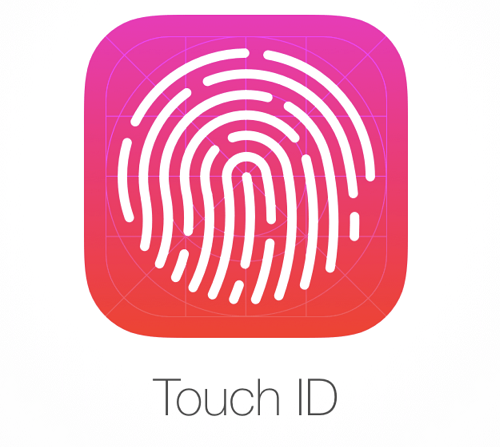
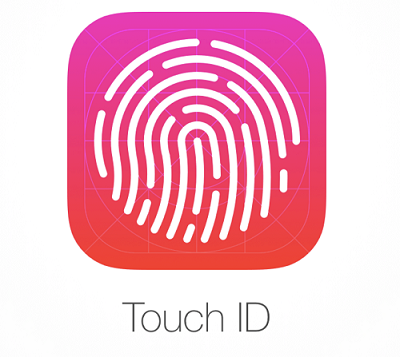
Changes on main page

diff --git a/index.html b/index.html
@@ -99,11 +99,11 @@
 
       <p style="font-size:24px; text-align:center"><i>In a society driven by information technology,</i></p>
       <p style="font-size:24px; text-align:center"><i>welcome to the world of information security.</i></p>
+      
       <!-- START THE FEATURETTES -->
       <br>
-      <!-- <hr class="featurette-divider"> -->
-      <div class="row featurette">
 
+      <div class="row featurette">
         <div class="col-md-7">
           <h2 class="featurette-heading">At First Glance</h2>
           <br>
@@ -113,7 +113,7 @@
             their information because in this day and age, information means money and access.</p>
         </div>
         <div class="col-md-5">
-          <img class="featurette-image img-fluid mx-auto" style="width: 500px; height: 473px;" src="image/index/securityQuestion.png">
+          <img class="featurette-image img-fluid mx-auto" style="width: 400px; height: 378px;" src="image/index/securityQuestion.png">
         </div>
       </div>
 
@@ -131,7 +131,7 @@
         </div>
 
         <div class="col-md-5 order-md-1">
-          <img class="featurette-image img-fluid mx-auto" style="width: 500px; height: 447px;" src="image/index/touchID.png" data-holder-rendered="true">
+          <img class="featurette-image img-fluid mx-auto" style="width: 400px; height: 357px;" src="image/index/touchID.png" data-holder-rendered="true">
         </div>
       </div>
 
@@ -159,57 +159,8 @@
             but many types of social engineering can be spontaneous and often
             rely on a disrupting effect. Other social engineering techniques include:
             </p>
-
-            <br><br>
-            <h3>Malware</h3>
-            <p class="lead" align="justify">
-              In Season 6, Episode 5 of The Good Wife, law partner Diane Lockhart
-              clicks on a popup and inadvertently installs ransomware onto the
-              entire network of computers in her law firm, locking their
-              information and files. In order to regain access, she must
-              pay $50,000.
-
-              <br><br>
-
-              Ransomware, a program that locks information and holds it captive
-              for ransom until payment is given, is one of the most frustrating
-              types of malware. Malware, short for malicious software, is a
-              piece of software that intentionally compromises a user's information.
-
-              <br><br>
-
-              In addition to ransomware, there is also spyware, which tracks a
-              user’s activity/information, and worms, which are independent
-              self-replicating malware programs. Intuitively speaking, malware
-              is any kind of virus you can imagine and is often combatted with
-              firewalls and anti-malware software.
-            </p>
-            <br><br>
-          <h3>Cryptography</h3>
-          <p class="lead" align="justify">
-            Though ciphers and codes have been used for thousands of years, the
-            struggle to unlock the Enigma Code was so inspiring that it was made
-            into a movie. <b>The Imitation Game</b> portrays the brilliant computer
-            scientist Alan Turing as he worked to build a machine that would
-            decrypt the German’s Enigma Code, a WWII cipher that changed daily.
-
             <br>
-            <br>
-            Cryptography is at the very essence of information security and is
-            the primary mechanism used to protect user information and authenticate
-            identity.
-            <br>
-            <br>
-            Sub-fields of cryptography include analyzing cryptographic
-            methods, branches of cryptography that hide information in plain sight,
-            and financial cryptography. From passwords to passcodes to Touch ID
-            and voice recognition, cryptography permeates every aspect of
-            information security.
-          </p>
-          <br>
-
         </div>
-
         <div class="col-md-6 order-md-2">
           <br><br><br><br><br><br><br><br><br><br><br><br><br>
           <ul class="lead">
@@ -222,21 +173,79 @@
               where someone will inevitably find it and try to check its contents
               by plugging it into a secure computer---thereby installing the
               malware onto it</li>
-        </ul>
-        <br><br><br><br><br><br>
-        <img class="featurette-image img-fluid mx-auto" style="width: 500px; height: 470px;" src="image/index/malware.png" data-holder-rendered="true">
+          </ul>
+        </div>
+      </div>
+
+      <div class="row featurette">
+        <div class="col-md order-md-1">
+          <h3>Malware</h3>
+          <p class="lead" align="justify">
+            In Season 6, Episode 5 of The Good Wife, law partner Diane Lockhart
+            clicks on a popup and inadvertently installs ransomware onto the
+            entire network of computers in her law firm, locking their
+            information and files. In order to regain access, she must
+            pay $50,000.
+
+          <br><br>
+
+            Ransomware, a program that locks information and holds it captive
+            for ransom until payment is given, is one of the most frustrating
+            types of malware. Malware, short for malicious software, is a
+            piece of software that intentionally compromises a user's information.
+
+          <br><br>
+
+            In addition to ransomware, there is also spyware, which tracks a
+            user’s activity/information, and worms, which are independent
+            self-replicating malware programs. Intuitively speaking, malware
+            is any kind of virus you can imagine and is often combatted with
+            firewalls and anti-malware software.
+          </p>
+        </div>
+        <div class="col-md order-md-2">
+          <br><br>  
+          <img class="featurette-image img-fluid mx-auto" style="width: 500px; height: 470px;" src="image/index/malware.png" data-holder-rendered="true">
+        </div>
+      </div>
+
+      <div class="row featurette">
+        <div class="col-md order-md-1">
+          <br><br>
+          <img class="featurette-image img-fluid mx-auto" style="width: 500px; height: 458px;" src="image/index/cryptography.png" data-holder-rendered="true">
+        </div>
+        <div class="col-md order-md-2">
+          <h3>Cryptography</h3>
+          <p class="lead" align="justify">
+            Though ciphers and codes have been used for thousands of years, the
+            struggle to unlock the Enigma Code was so inspiring that it was made
+            into a movie. <b>The Imitation Game</b> portrays the brilliant computer
+            scientist Alan Turing as he worked to build a machine that would
+            decrypt the German’s Enigma Code, a WWII cipher that changed daily.
+  
+          <br>
+          <br>
+            Cryptography is at the very essence of information security and is
+            the primary mechanism used to protect user information and authenticate
+            identity.
+          <br>
+          <br>
+            Sub-fields of cryptography include analyzing cryptographic
+            methods, branches of cryptography that hide information in plain sight,
+            and financial cryptography. From passwords to passcodes to Touch ID
+            and voice recognition, cryptography permeates every aspect of
+            information security.
+          </p>
         </div>
       </div>
 
       <hr class="featurette-divider">
+      
+      
       <h1> Up Next: <b> Research </b> </h1>
-      <br><br>
-      <!-- /END THE FEATURETTES -->
-
-      <!-- Five items of text below the carousel -->
+      <br><br>      
 
       <div class="row">
-
         <div class="col-lg-4">
           <a href = "research.html">
           <img class="rounded-circle" src="image/index/research.png" alt="Generic placeholder image" width="140" height="140">
@@ -245,7 +254,7 @@
           <h2>Research</h2>
           <p>Learn more about the history of information security, the different researchers, notable research being done in the field, and most importantly, meet George! </p>
           <p><a class="btn btn-secondary" href="research.html" role="button">Who's George?! »</a></p>
-        </div><!-- /.col-lg-4 -->
+        </div>
         <div class="col-lg-4">
           <a href = "impact.html">
           <img class="rounded-circle" src="image/index/impact.png" alt="Generic placeholder image" width="140" height="140">
@@ -254,7 +263,7 @@
           <h2>Impact</h2>
           <p>Research has very real impact that bleeds into the world and changes our lives. Find out more about the impact of UCL's world-changing research.</p>
           <p><a class="btn btn-secondary" href="impact.html" role="button">Real World Impact »</a></p>
-        </div><!-- /.col-lg-4 -->
+        </div>
         <div class="col-lg-4">
           <a href = "students.html">
           <img class="rounded-circle" src="image/index/student.png" alt="Generic placeholder image" width="140" height="140">
@@ -263,18 +272,19 @@
           <h2>Students</h2>
           <p> We love students ---check out a variety of resources tailored for you so that you can take your first step towards becoming a computer scientist.</p>
           <p><a class="btn btn-secondary" href="students.html" role="button">Yes, That's Me »</a></p>
-        </div><!-- /.col-lg-4 -->
-      </div><!-- /.row -->
+        </div>
+      </div>
 
       <hr class="featurette-divider">
 
+      
       <!-- FOOTER -->
       <footer>
         <p class="float-right"><a href="#">Back to top</a></p>
         <p>© 2017 Team 10, Inc. · <a href="#">Privacy</a> · <a href="#">Terms</a></p>
       </footer>
 
-    </div><!-- /.container -->
+    </div>
 
 
     <!-- Bootstrap core JavaScript
